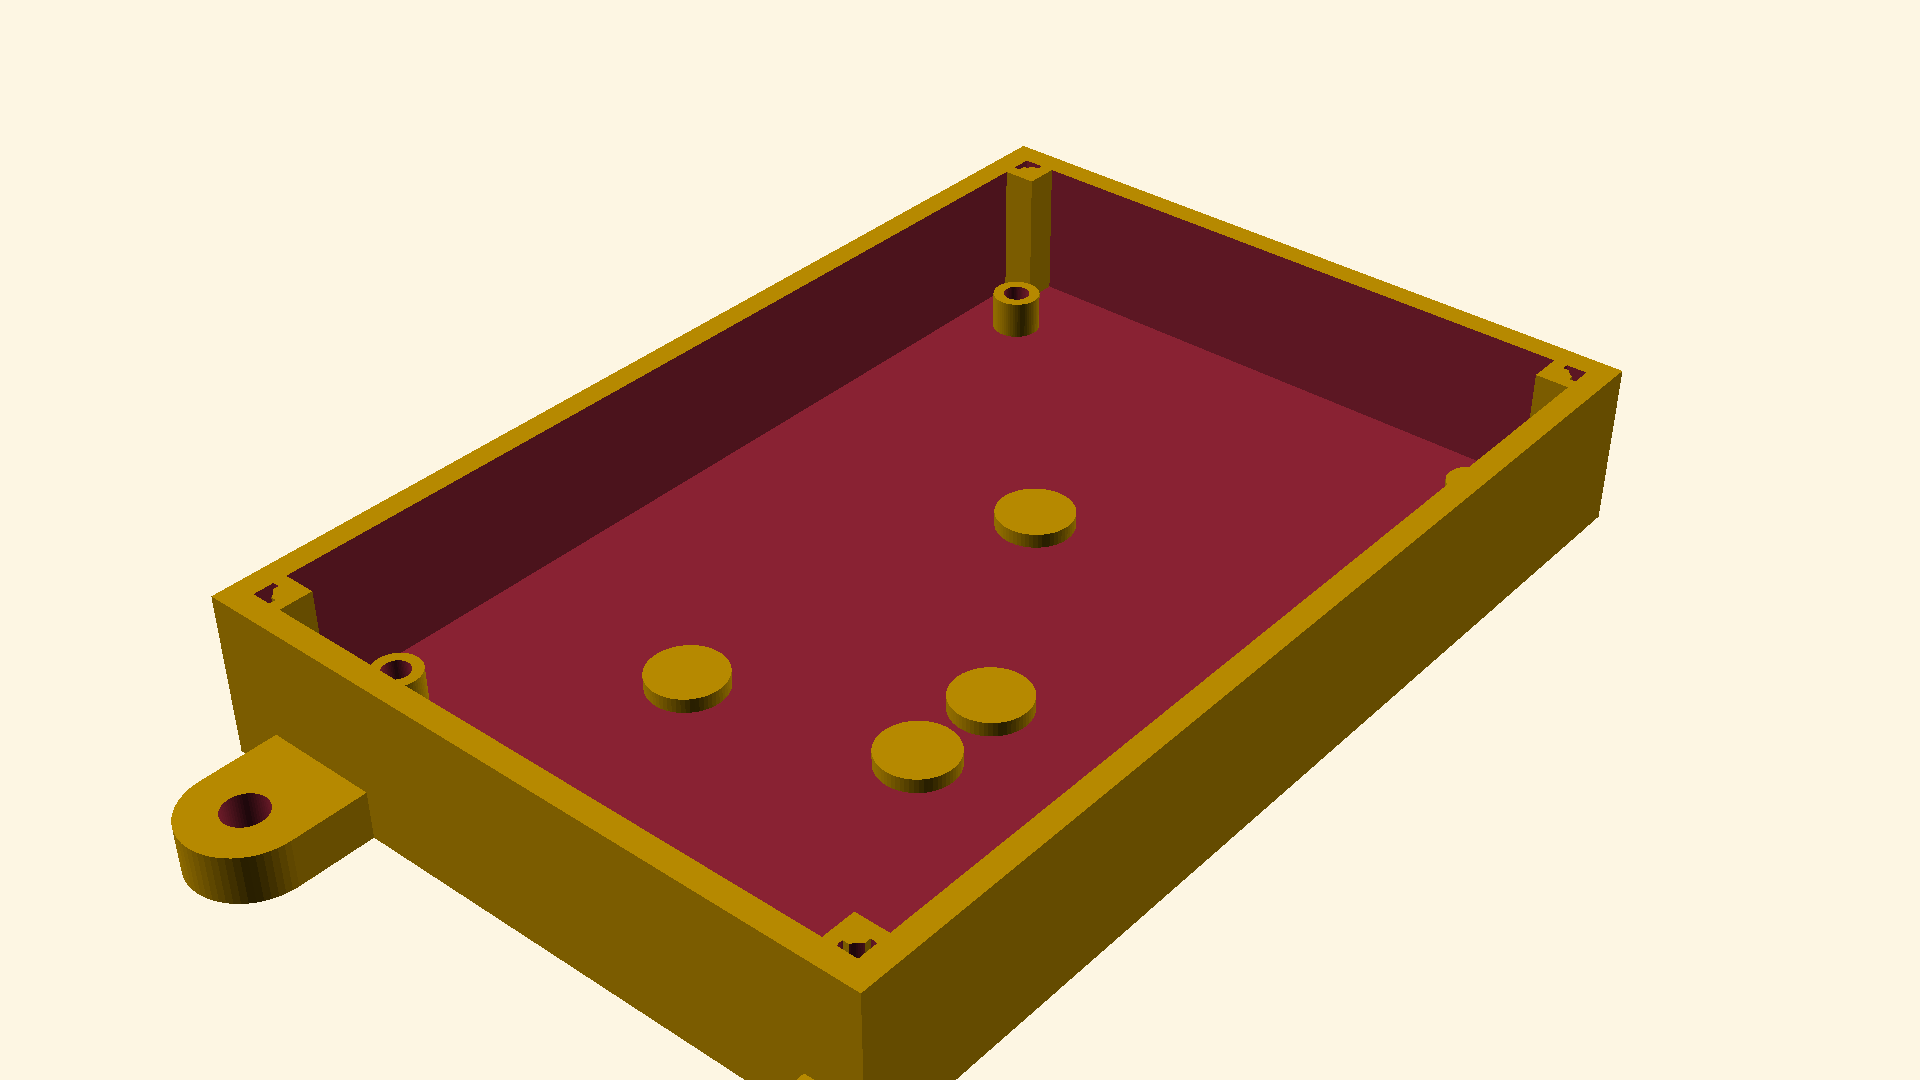
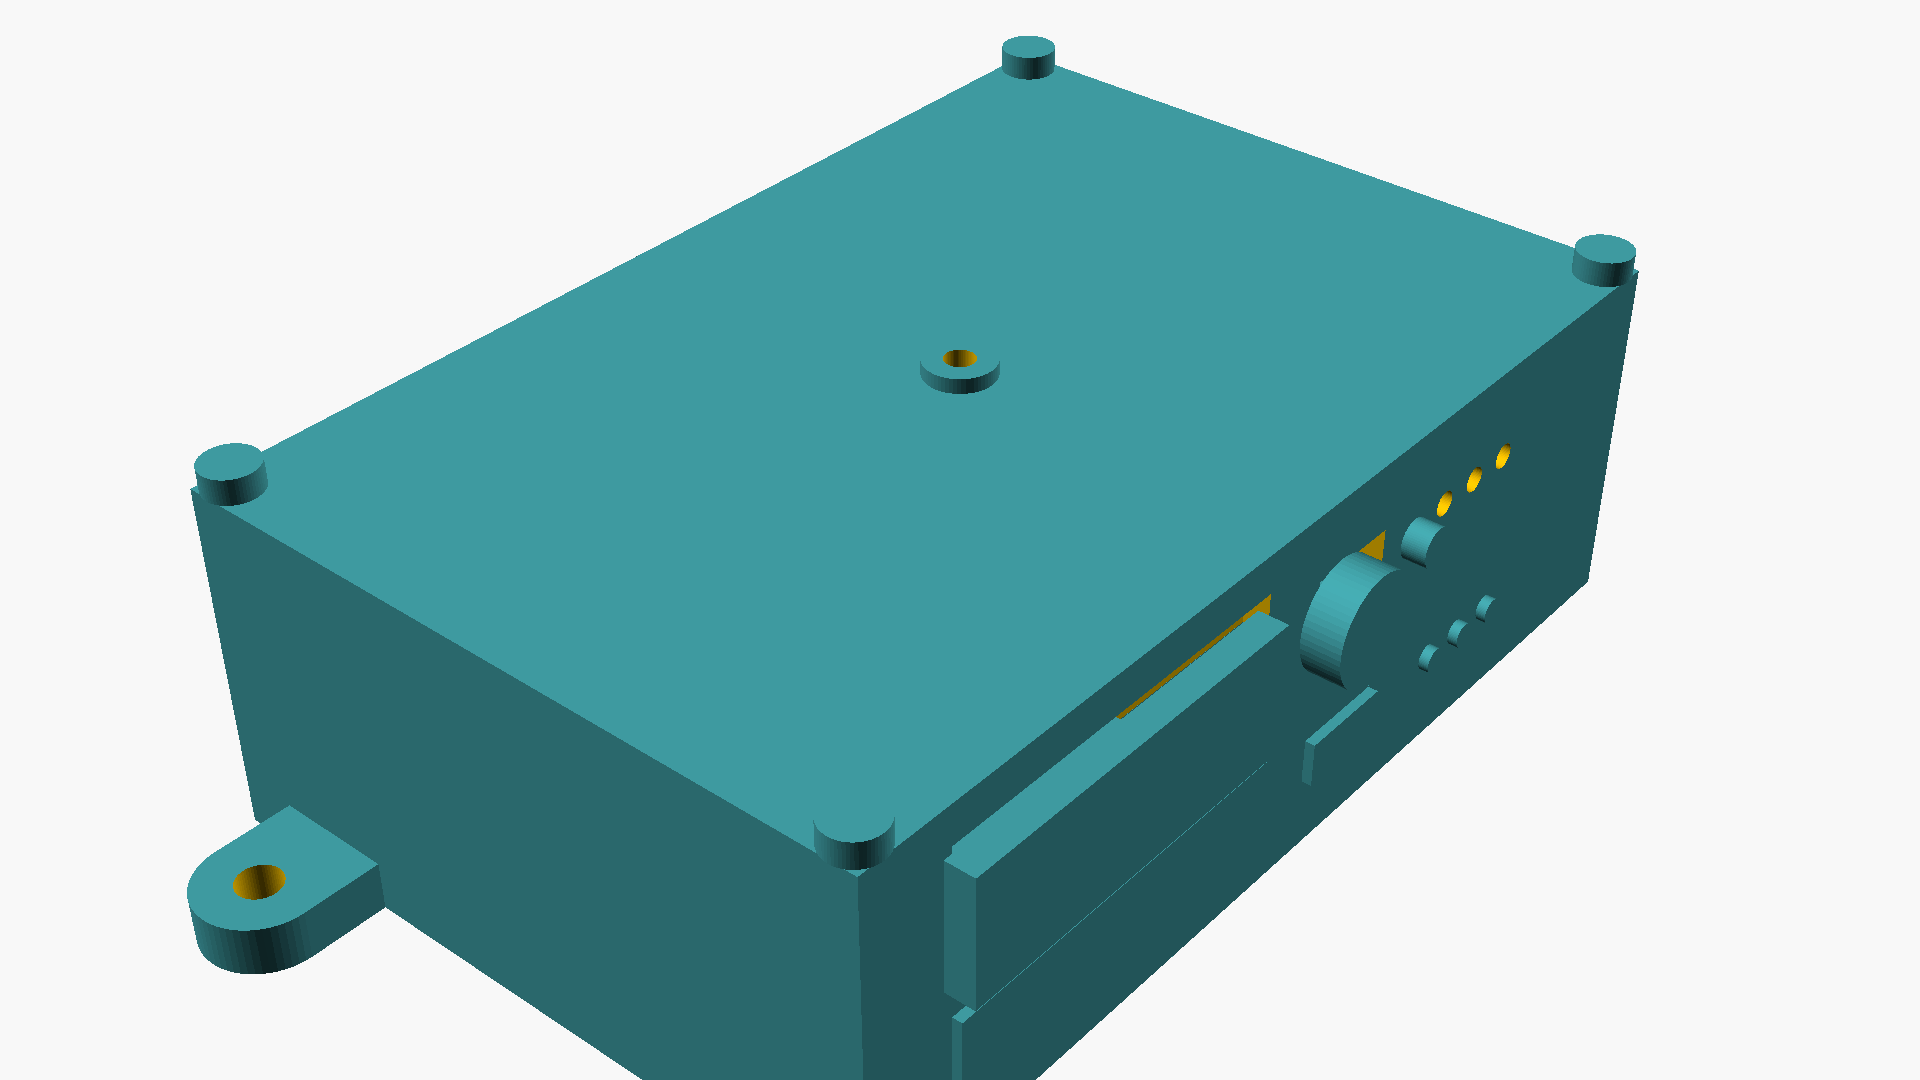
fix(cad): resolve enclosure preview in main_box_enclosure_cad with fully assembled 3-tier model showing real Unterwanne and Oberwanne

diff --git a/hardware/scripts/build_cad_from_openscad.py b/hardware/scripts/build_cad_from_openscad.py
@@ -81,10 +81,10 @@ RENDER_TARGETS: List[Tuple[str, str, str, str]] = [
         "Tomorrow"
     ),
     (
-        "01_main_box/00_lower_deck.scad",
+        "01_main_box/98_closed_box.scad",
         os.path.join(CAD_IMG_DIR, "main_box_enclosure_cad.png"),
-        "55,37,10,55,0,310,250",
-        "Solarized"
+        "55,37,18,55,0,310,250",
+        "Tomorrow"
     ),
     (
         "02_pod_base/99_pod_base_assembly.scad",
